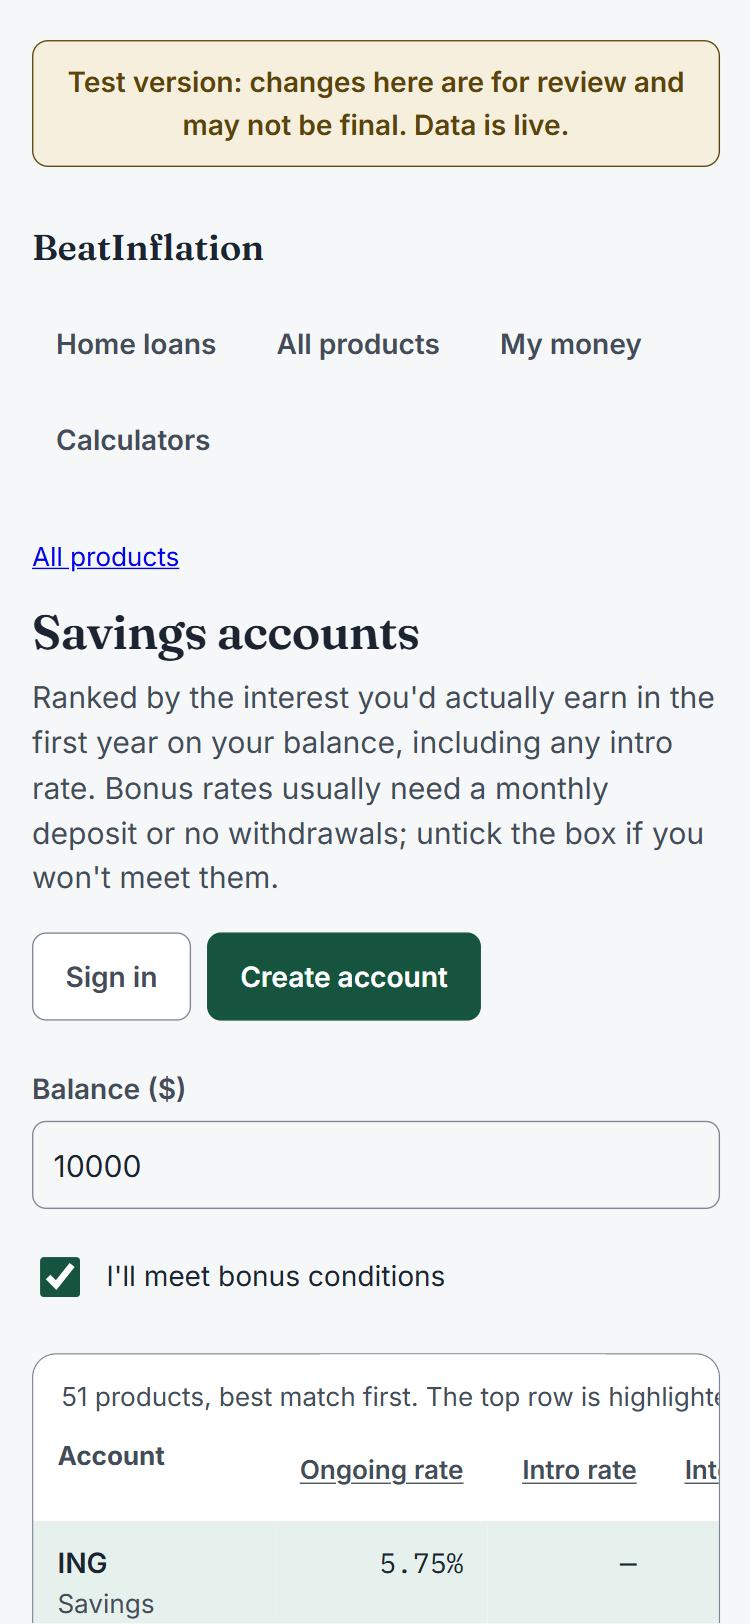
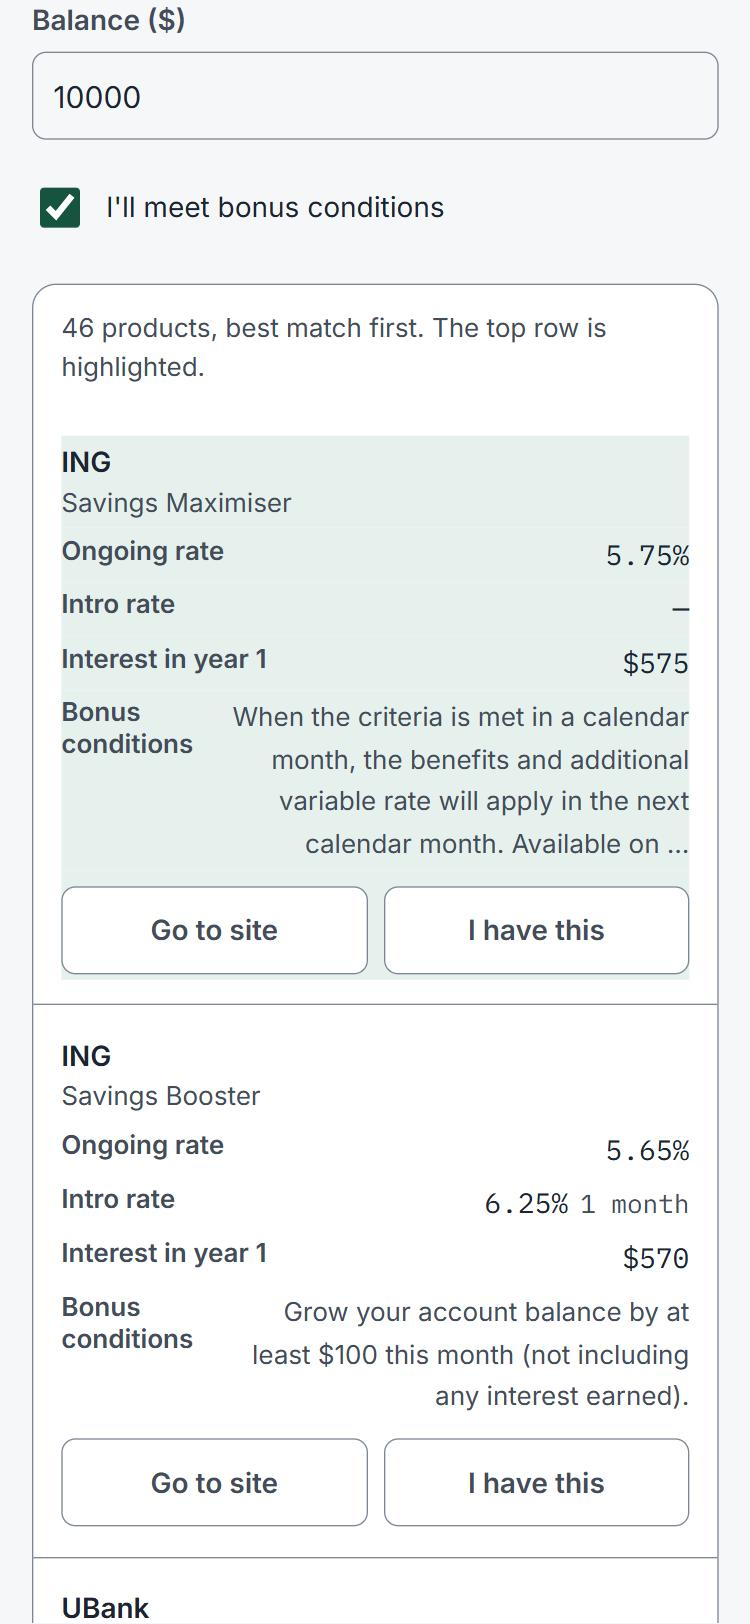
Design set 1.1: phone card capture and credit cards page

diff --git a/docs/design/README.md b/docs/design/README.md
@@ -2,7 +2,7 @@
 
 | Document | PG |
 | --- | --- |
-| Version | 1.0 |
+| Version | 1.1 |
 | Captured | 26 Oct 2026, from the test site |
 
 One screenshot set per page, captured from the running site (the design is the built page). Desktop is 1280 px wide;
@@ -17,7 +17,7 @@ themes) and `app.css`. Fonts: Fraunces (headings), Inter (text), IBM Plex Mono (
 | `PG-01` | Home loan rate board | `index.html` | [view](PG-01-home-loans-desktop.jpg) | Existing card layout (see production) |
 | `PG-02` | Product hub | `products.html` | [view](PG-02-product-hub-desktop.jpg) | [view](PG-02-product-hub-mobile.jpg) |
 | `PG-03a` | Comparison table (savings) | `compare.html?c=savings` | [view](PG-03a-savings-desktop.jpg) | [view](PG-03a-savings-mobile.jpg) |
-| `PG-03b` | Comparison table (credit cards) | `compare.html?c=credit_cards` | To capture after the card data fix syncs | — |
+| `PG-03b` | Comparison table (credit cards) | `compare.html?c=credit_cards` | [view](PG-03b-credit-cards-desktop.jpg) | Same card layout as PG-03a |
 | `PG-03e` | Energy plans for a postcode | `compare.html?c=energy` | [view](PG-03e-energy-desktop.jpg) | — |
 | `PG-03f` | Fuel prices | `compare.html?c=fuel` | [view](PG-03f-fuel-desktop.jpg) | — |
 | `PG-03m` | Money transfers | `compare.html?c=money_transfers` | [view](PG-03m-money-transfers-desktop.jpg) | — |
@@ -30,7 +30,9 @@ themes) and `app.css`. Fonts: Fraunces (headings), Inter (text), IBM Plex Mono (
 
 ## Open design items
 
-- **Comparison tables on phones** (`PG-03*` mobile): fixed after capture. Below 640 px each product is now a card
-  with labelled figures, like the home loan board; `PG-03a-savings-mobile.jpg` shows the earlier sideways-scrolling
-  table and should be recaptured.
 - **Signed-in My money** (`PG-05s`): capture once the owner signs in on the test site.
+
+## History
+
+- 1.1: PG-03a mobile recaptured with the phone card layout; PG-03b credit cards added.
+- 1.0: First capture set.

diff --git a/docs/CHANGELOG.md b/docs/CHANGELOG.md
@@ -15,7 +15,7 @@ Newest first. Each entry names the release or branch, what changed, and the requ
   failed or empty fetch from retiring products (`BR-005`).
 - Comparison rows become labelled cards on phones.
 - Documentation set created: requirements, processes, architecture, flows, designs, configuration, credentials,
-  codebase (docs v1.0).
+  codebase (docs v1.0). Design set 1.1 adds credit cards and the phone card layout.
 
 ## release-2026-10-26: production
 
